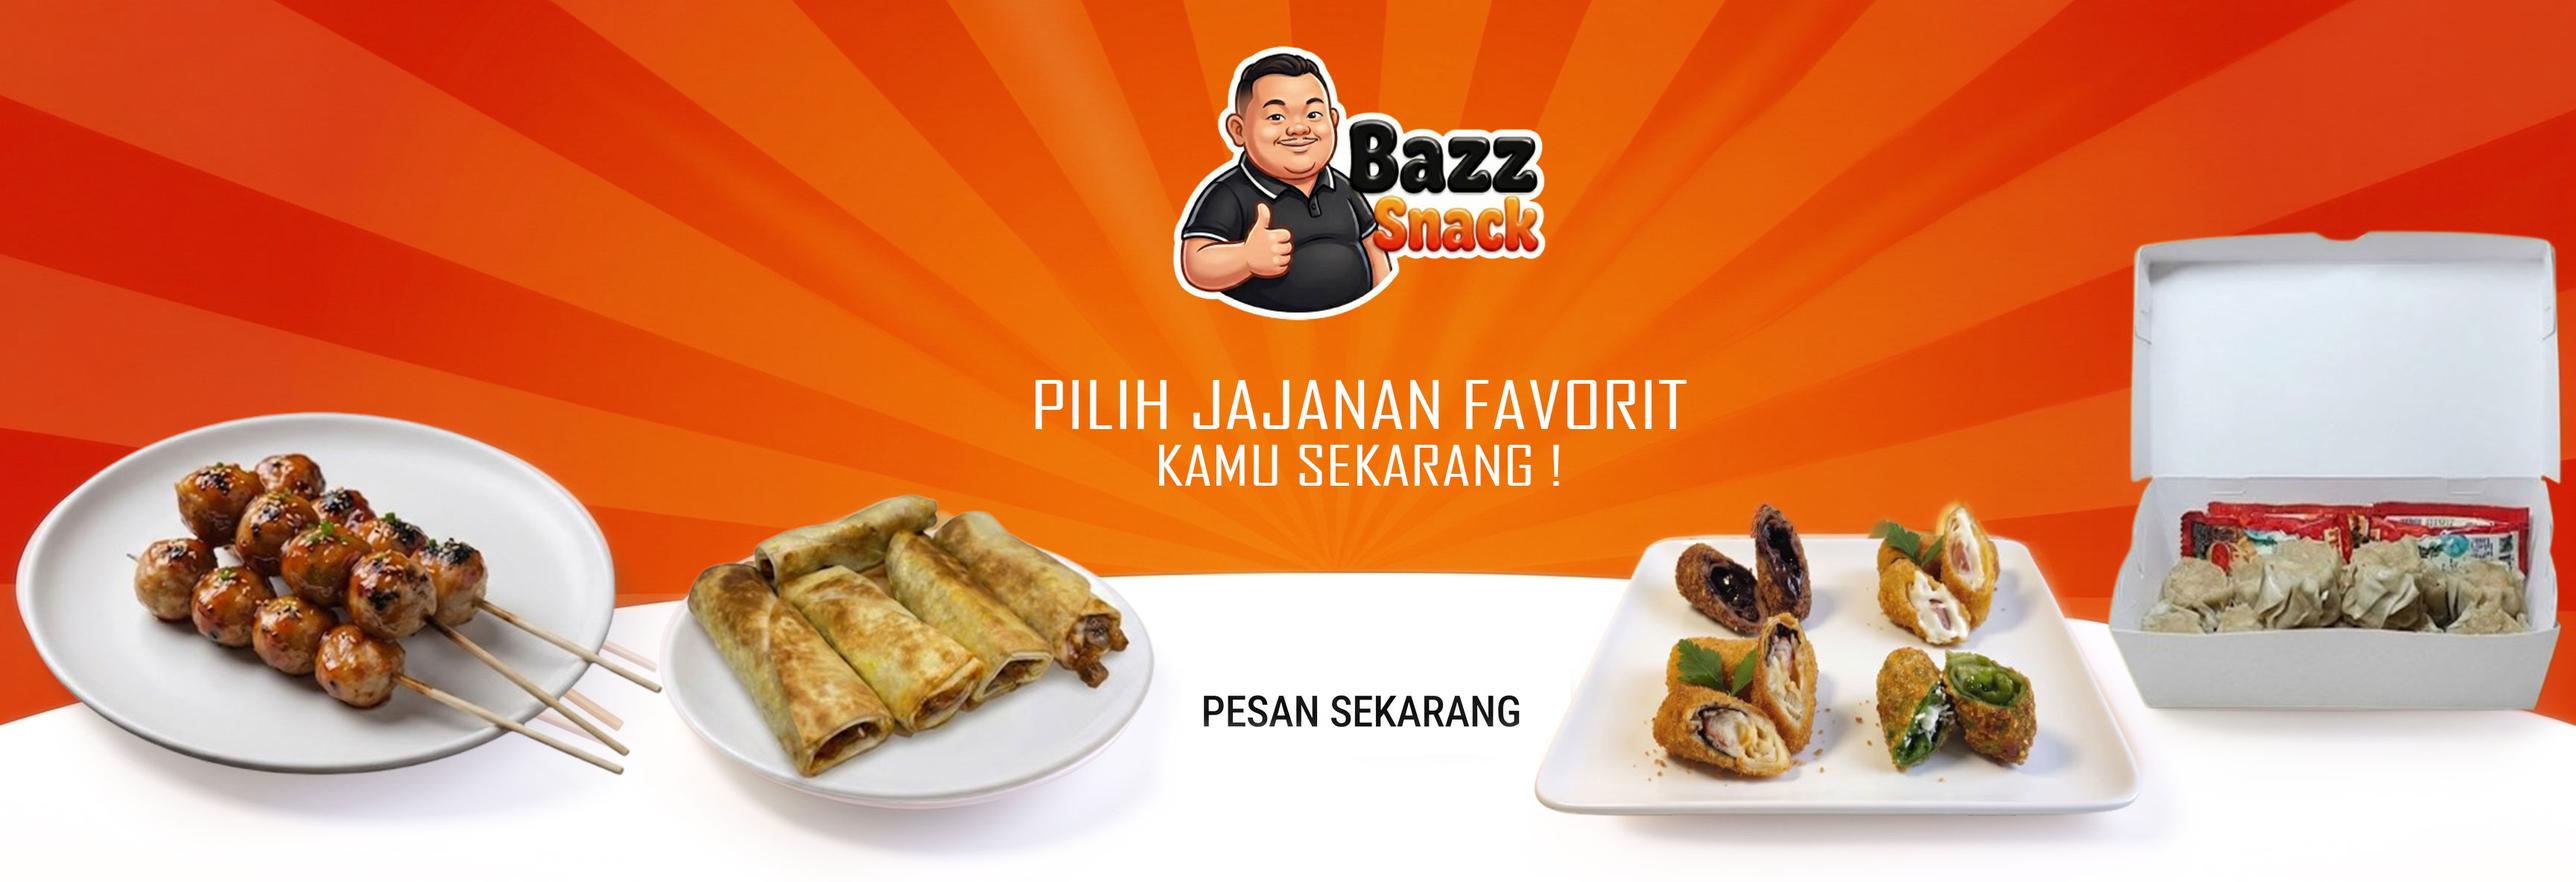
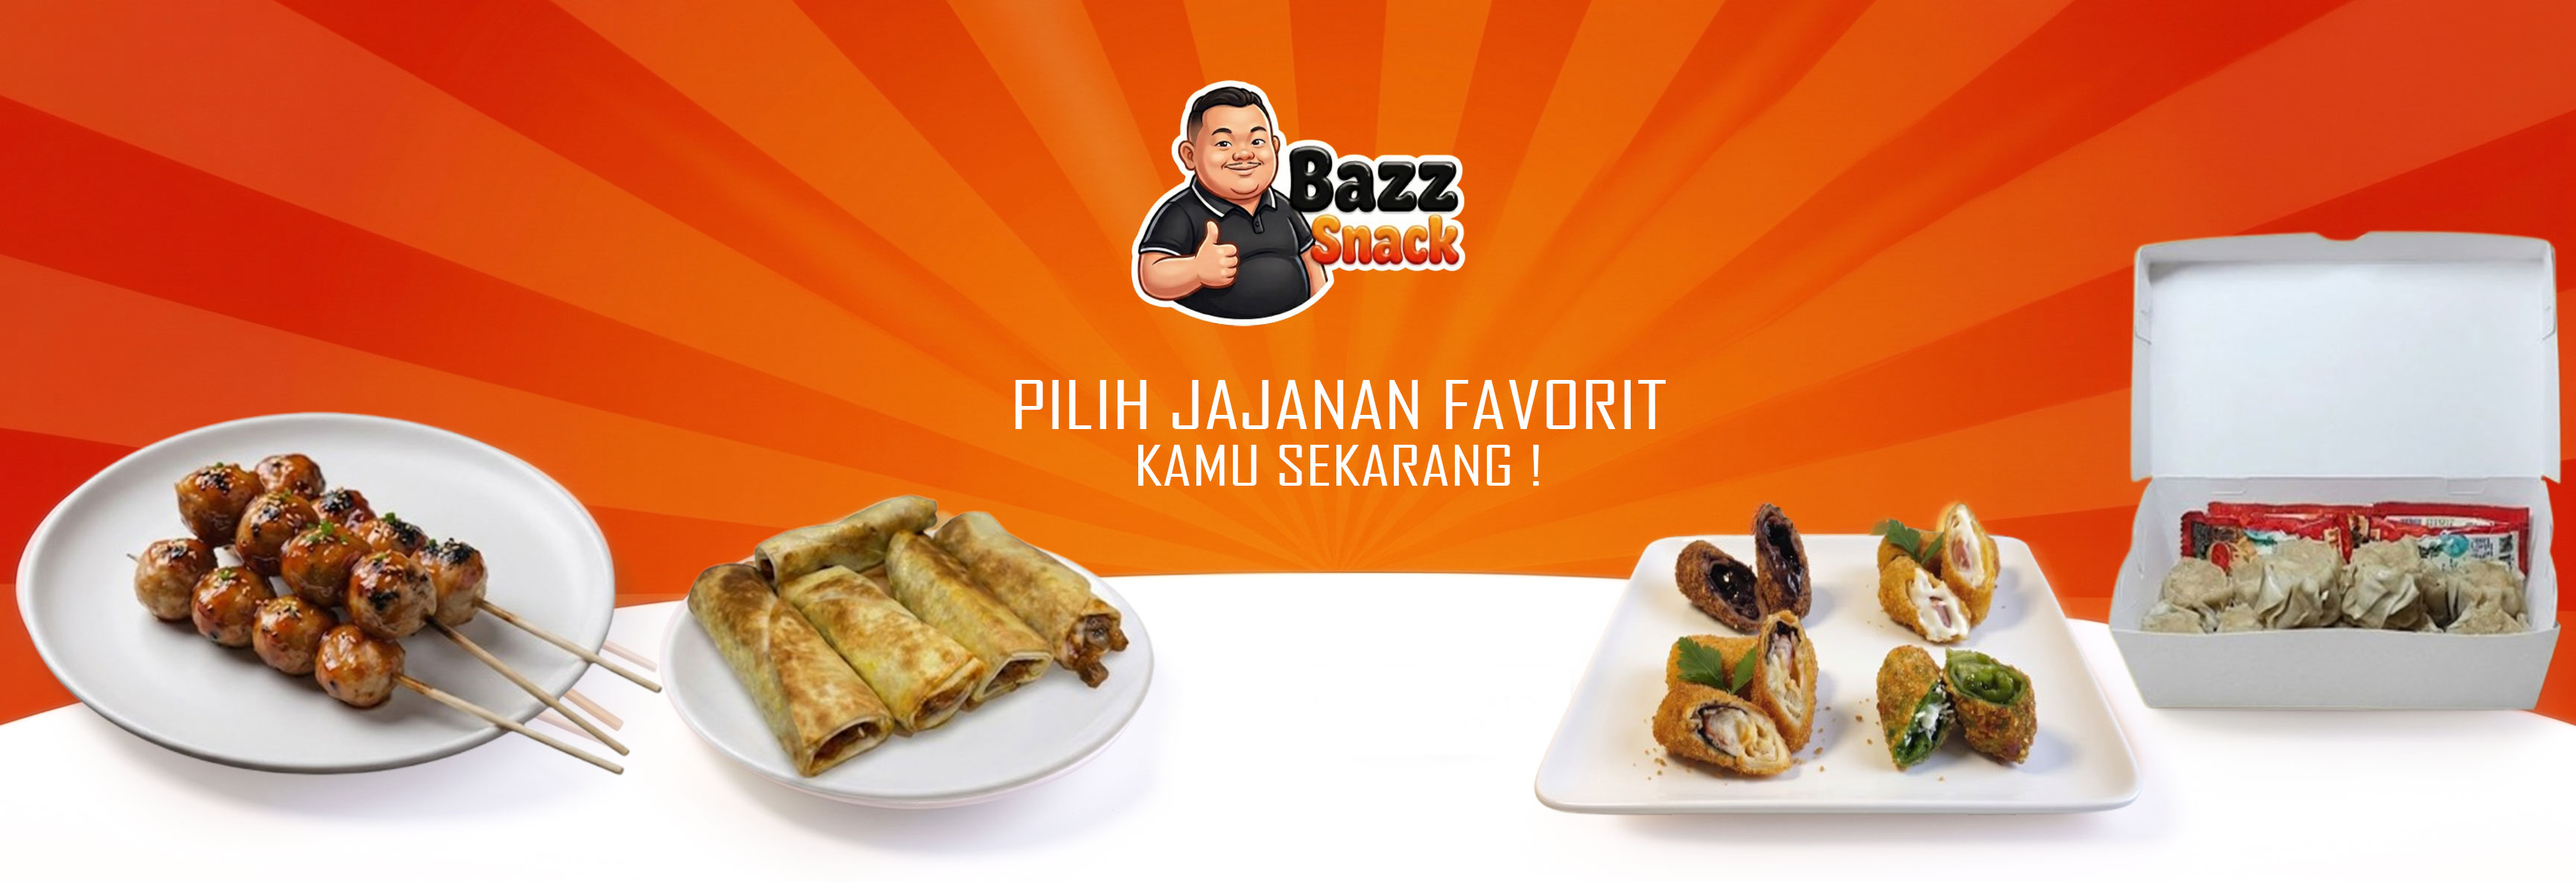
Update hero image path to hero-section.jpg and fix cropping by using proportional w-full h-auto

diff --git a/src/components/HeroSection.tsx b/src/components/HeroSection.tsx
@@ -6,20 +6,21 @@ export default function HeroSection() {
   return (
     <section id="home" className="relative w-full">
       {/* Hero Banner Image */}
-      <div className="relative w-full aspect-[16/5.5] sm:aspect-[16/6] lg:aspect-[16/5]">
+      <div className="relative w-full">
         <Image
-          src="/HERO-SECTION.jpg"
+          src="/hero-section.jpg"
           alt="Bazz Snack - Pilih Jajanan Favorit Kamu Sekarang!"
-          fill
+          width={1920}
+          height={640}
           sizes="100vw"
-          className="object-cover object-center"
+          className="w-full h-auto object-contain"
           priority
         />
 
         {/* Clickable overlay for "Pesan Sekarang" area */}
         <a
           href="#menu"
-          className="absolute bottom-[8%] left-1/2 -translate-x-1/2 inline-flex justify-center items-center h-12 sm:h-14 px-8 sm:px-10 rounded-full bg-white/90 text-primary font-headline font-bold text-sm sm:text-base uppercase tracking-wider hover:bg-white hover:scale-105 transition-all shadow-xl backdrop-blur-sm"
+          className="absolute bottom-[10%] sm:bottom-[15%] left-1/2 -translate-x-1/2 inline-flex justify-center items-center h-10 sm:h-14 px-6 sm:px-10 rounded-full bg-white/95 text-primary font-headline font-bold text-xs sm:text-base uppercase tracking-wider hover:bg-white hover:scale-105 transition-all shadow-xl backdrop-blur-sm"
         >
           PESAN SEKARANG
           <span className="material-symbols-outlined ml-2 text-sm">arrow_forward</span>
